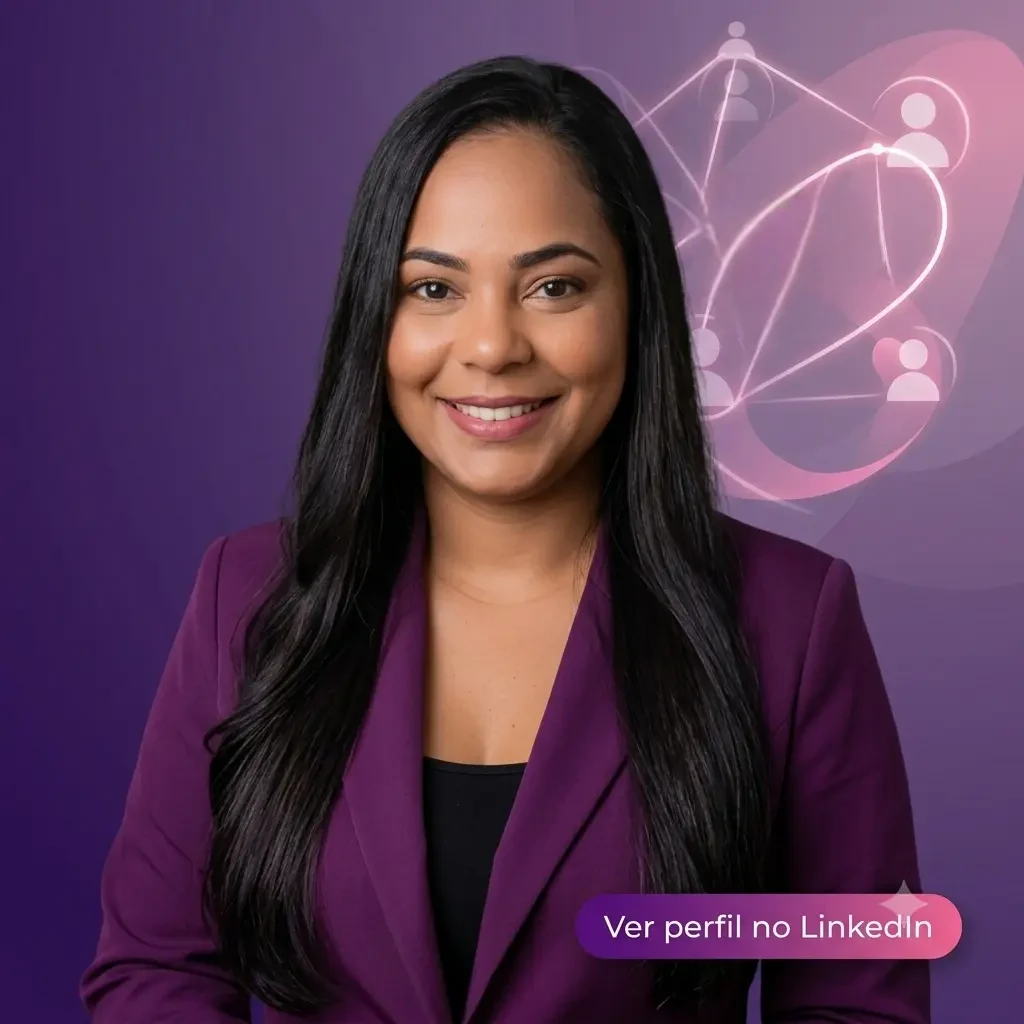
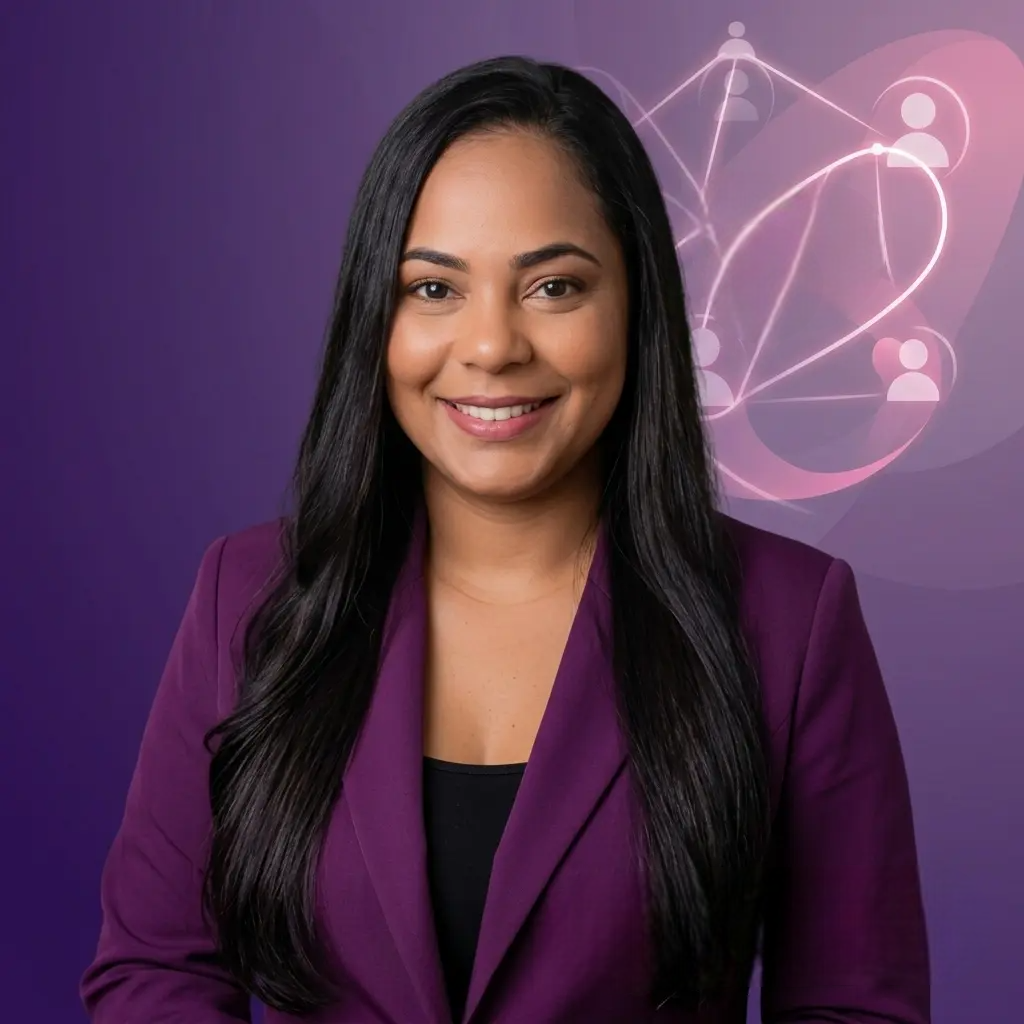
About: novo modelo padrao portifolio (entrada lateral x, sem parallax scroll-linked) + re-adicionada entre Stats e Investment

Changed region(s): [[0.5625, 0.8438, 0.9375, 0.9688]]

diff --git a/src/components/sections/About.tsx b/src/components/sections/About.tsx
@@ -1,11 +1,9 @@
 'use client';
 
-import { HeartHandshake, Lightbulb } from 'lucide-react';
+import { HeartHandshake, Lightbulb, Award } from 'lucide-react';
 import { LinkedinLogo } from '@phosphor-icons/react';
-import { MotionIn } from '@/components/ui/MotionIn';
-import { ParallaxLayer } from '@/components/ui/ParallaxLayer';
+import { motion } from 'motion/react';
 import type { OptimizedImage } from '@/lib/image';
-import { motionTokens } from '@/lib/motion-tokens';
 
 interface AboutProps {
   image: OptimizedImage;
@@ -20,95 +18,152 @@ const values = [
   { title: 'Estratégia', description: 'Foco em resultados sustentáveis.', icon: Lightbulb },
 ];
 
+const stats = [
+  { value: '10+', label: 'anos de experiência' },
+  { value: '500+', label: 'profissionais avaliados' },
+];
+
 export function About({ image }: AboutProps) {
   return (
-    <section id="sobre" className="scroll-mt-20 px-margin-mobile py-xl md:px-margin-desktop">
-      <div className="mx-auto grid w-full max-w-[85rem] grid-cols-1 items-center gap-xl md:grid-cols-2">
-        <div className="min-w-0 md:col-start-2 md:row-start-1">
-          <MotionIn direction="right">
-            <h2 className="text-headline-lg font-semibold text-primary">Sobre Vanessa Ariel</h2>
-            <div className="mt-base mb-md h-1 w-20 rounded-full brand-gradient" />
-          </MotionIn>
+    <section id="sobre" className="px-margin-mobile py-xl md:px-margin-desktop">
+      <div className="mx-auto grid w-full max-w-[85rem] grid-cols-1 items-start gap-xl lg:grid-cols-2 lg:gap-16">
+        {/* Texto — entrada lateral da esquerda */}
+        <div>
+          <motion.div
+            initial={{ opacity: 0, x: -30 }}
+            whileInView={{ opacity: 1, x: 0 }}
+            viewport={{ once: true, margin: '-50px' }}
+            transition={{ duration: 0.6 }}
+          >
+            <span className="inline-block text-label-sm font-medium uppercase tracking-[0.2em] text-primary">
+              Quem sou
+            </span>
+          </motion.div>
 
-          <MotionIn delay={0.1} direction="right">
-            <p className="text-body-lg text-on-surface-variant">
-              Com uma trajetória dedicada à psicologia organizacional e gestão estratégica, Vanessa
-              Ariel acredita que o sucesso de uma empresa está intrinsecamente ligado ao bem-estar e
-              desenvolvimento de seus colaboradores.
-            </p>
-          </MotionIn>
+          <motion.h2
+            initial={{ opacity: 0, x: -30 }}
+            whileInView={{ opacity: 1, x: 0 }}
+            viewport={{ once: true, margin: '-50px' }}
+            transition={{ duration: 0.6, delay: 0.08 }}
+            className="mt-2 text-3xl font-semibold leading-tight tracking-tight text-primary text-balance sm:text-4xl"
+          >
+            Sobre Vanessa Ariel
+          </motion.h2>
 
-          <MotionIn delay={0.2} direction="right">
-            <p className="m-2 text-body-md text-on-surface-variant">
-              Minha missão é desmistificar o RH transacional e elevar a área ao seu papel
-              fundamental: parceira estratégica do negócio. Através de uma visão sistêmica e
-              acolhedora, auxilio empreendedores a construir culturas fortes e equipes de alta
-              performance.
-            </p>
-          </MotionIn>
-        </div>
+          <motion.p
+            initial={{ opacity: 0, x: -30 }}
+            whileInView={{ opacity: 1, x: 0 }}
+            viewport={{ once: true, margin: '-50px' }}
+            transition={{ duration: 0.6, delay: 0.16 }}
+            className="mt-4 text-lg leading-relaxed text-on-surface-variant"
+          >
+            Com uma trajetória dedicada à psicologia organizacional e gestão estratégica, Vanessa
+            Ariel acredita que o sucesso de uma empresa está intrinsecamente ligado ao bem-estar e
+            ao desenvolvimento dos seus colaboradores.
+          </motion.p>
 
-        <div className="relative w-full md:col-start-1 md:row-span-2 md:row-start-1">
-          <MotionIn direction="left" distance={motionTokens.distance.xl} className="relative z-0">
-            <div className="aspect-[5/6] overflow-hidden rounded-3xl shadow-2xl">
-              <ParallaxLayer speed={0.12}>
-                <img
-                  src={image.src}
-                  srcSet={image.srcSet}
-                  sizes={image.sizes}
-                  width={image.width}
-                  height={image.height}
-                  alt="Vanessa Ariel conduzindo um workshop corporativo com equipe em sala moderna."
-                  className="h-full w-full object-cover"
-                  loading="lazy"
-                />
-              </ParallaxLayer>
-            </div>
-          </MotionIn>
-        </div>
+          <motion.p
+            initial={{ opacity: 0, x: -30 }}
+            whileInView={{ opacity: 1, x: 0 }}
+            viewport={{ once: true, margin: '-50px' }}
+            transition={{ duration: 0.6, delay: 0.24 }}
+            className="mt-4 text-base leading-relaxed text-on-surface-variant"
+          >
+            Minha missão é desmistificar o RH transacional e elevá-lo ao papel fundamental de
+            parceira estratégica do negócio: construir culturas fortes e equipes de alta
+            performance.
+          </motion.p>
 
-        <div className="min-w-0 md:col-start-2 md:row-start-2">
-          <div className="grid grid-cols-2 gap-md py-md">
-            {values.map((value, index) => (
-              <MotionIn
+          {/* Cards de valores */}
+          <div className="mt-8 grid grid-cols-1 gap-4 sm:grid-cols-2">
+            {values.map((value, i) => (
+              <motion.div
                 key={value.title}
-                delay={0.3 + index * 0.1}
-                direction="up"
-                distance={motionTokens.distance.md}
-                className="h-full"
+                initial={{ opacity: 0, x: -20 }}
+                whileInView={{ opacity: 1, x: 0 }}
+                viewport={{ once: true, margin: '-30px' }}
+                transition={{ duration: 0.5, delay: 0.3 + i * 0.1 }}
+                className="flex items-start gap-4 rounded-2xl bg-surface-container-low p-5"
               >
-                <div className="h-full rounded-xl bg-surface-container-low p-base">
-                  <div className="mb-sm flex h-10 w-10 items-center justify-center rounded-full bg-secondary-fixed-dim/40 text-secondary">
-                    <value.icon className="h-5 w-5" />
-                  </div>
-                  <h4 className="text-headline-md font-semibold text-secondary">{value.title}</h4>
-                  <p className="text-label-sm text-on-surface-variant">{value.description}</p>
+                <span className="flex h-11 w-11 shrink-0 items-center justify-center rounded-full bg-secondary-fixed-dim/40 text-secondary">
+                  <value.icon className="h-5 w-5" />
+                </span>
+                <div>
+                  <h3 className="text-lg font-semibold text-secondary">{value.title}</h3>
+                  <p className="mt-1 text-sm text-on-surface-variant">{value.description}</p>
                 </div>
-              </MotionIn>
+              </motion.div>
             ))}
           </div>
 
-          <MotionIn delay={0.45} direction="right" distance={motionTokens.distance.sm}>
-            <blockquote className="border-l-4 border-primary pl-md text-body-lg italic text-primary">
-              &quot;Pessoas não são recursos, são o coração do negócio.&quot;
-            </blockquote>
-          </MotionIn>
+          {/* Stats */}
+          <div className="mt-8 grid grid-cols-2 gap-6">
+            {stats.map((stat, i) => (
+              <motion.div
+                key={stat.label}
+                initial={{ opacity: 0, x: -20 }}
+                whileInView={{ opacity: 1, x: 0 }}
+                viewport={{ once: true, margin: '-30px' }}
+                transition={{ duration: 0.5, delay: 0.4 + i * 0.1 }}
+              >
+                <span className="brand-text-gradient text-3xl font-bold tabular-nums">
+                  {stat.value}
+                </span>
+                <p className="text-sm text-on-surface-variant">{stat.label}</p>
+              </motion.div>
+            ))}
+          </div>
 
-          <MotionIn delay={0.55} direction="right" distance={motionTokens.distance.sm}>
-            <a
-              href="https://linkedin.com"
-              target="_blank"
-              rel="noopener noreferrer"
-              className="m-4 group inline-flex items-center gap-sm font-bold text-primary"
-            >
-              Ver perfil no LinkedIn
-              <LinkedinLogo
-                weight="fill"
-                className="h-5 w-5 transition-transform duration-300 group-hover:translate-x-1"
-              />
-            </a>
-          </MotionIn>
+          <motion.a
+            href="https://linkedin.com"
+            target="_blank"
+            rel="noopener noreferrer"
+            initial={{ opacity: 0, x: -20 }}
+            whileInView={{ opacity: 1, x: 0 }}
+            viewport={{ once: true, margin: '-30px' }}
+            transition={{ duration: 0.5, delay: 0.5 }}
+            className="group mt-8 inline-flex items-center gap-2 text-base font-bold text-primary"
+          >
+            Ver perfil no LinkedIn
+            <LinkedinLogo
+              weight="fill"
+              className="h-5 w-5 transition-transform duration-300 group-hover:translate-x-1"
+            />
+          </motion.a>
         </div>
+
+        {/* Foto — entrada lateral da direita + selo de destaque */}
+        <motion.div
+          initial={{ opacity: 0, x: 40 }}
+          whileInView={{ opacity: 1, x: 0 }}
+          viewport={{ once: true, margin: '-50px' }}
+          transition={{ duration: 0.8, delay: 0.1 }}
+        >
+          <div className="relative">
+            <div className="aspect-[4/5] overflow-hidden rounded-3xl shadow-2xl">
+              <img
+                src={image.src}
+                srcSet={image.srcSet}
+                sizes={image.sizes}
+                width={image.width}
+                height={image.height}
+                alt="Vanessa Ariel conduzindo um workshop corporativo com equipe em sala moderna."
+                className="h-full w-full object-cover"
+                loading="lazy"
+              />
+            </div>
+
+            <div className="glass-card absolute -bottom-5 left-5 flex items-center gap-3 rounded-2xl p-4 shadow-xl">
+              <span className="flex h-10 w-10 items-center justify-center rounded-full bg-primary/10 text-primary">
+                <Award className="h-5 w-5" />
+              </span>
+              <div>
+                <p className="text-sm font-semibold text-on-surface">Psicóloga Organizacional</p>
+                <p className="text-xs text-on-surface-variant">RH estratégico</p>
+              </div>
+            </div>
+          </div>
+        </motion.div>
       </div>
     </section>
   );

diff --git a/src/components/ui/ParallaxLayer.tsx b/src/components/ui/ParallaxLayer.tsx
@@ -8,7 +8,7 @@ interface ParallaxLayerProps {
   className?: string;
   style?: CSSProperties;
   speed?: number;
-  factor?: number;
+  maxOffset?: number;
 }
 
 export function ParallaxLayer({
@@ -16,7 +16,7 @@ export function ParallaxLayer({
   className,
   style,
   speed = 0.5,
-  factor = 1.15,
+  maxOffset = 120,
 }: ParallaxLayerProps) {
   const ref = useRef<HTMLDivElement>(null);
   const reduce = useReducedMotion();
@@ -24,28 +24,18 @@ export function ParallaxLayer({
     target: ref,
     offset: ['start end', 'end start'],
   });
-  const y = useTransform(scrollYProgress, [0, 1], [-(speed * 100), speed * 100]);
+  const y = useTransform(scrollYProgress, [0, 1], [maxOffset * speed, -maxOffset * speed]);
 
   if (reduce)
     return (
-      <div className={`overflow-hidden ${className ?? ''}`} style={style}>
-        <div className="h-full w-full">{children}</div>
+      <div className={className} style={style}>
+        {children}
       </div>
     );
 
   return (
-    <div ref={ref} className={`overflow-hidden ${className ?? ''}`} style={style}>
-      {/* scale > 1 garante que o translateY nunca exponha borda */}
-      <motion.div
-        className="h-full w-full"
-        style={{
-          y,
-          scale: factor,
-          willChange: 'transform',
-        }}
-      >
-        {children}
-      </motion.div>
+    <div ref={ref} className={className} style={style}>
+      <motion.div style={{ y }}>{children}</motion.div>
     </div>
   );
 }

diff --git a/src/components/sections/Pillars.tsx b/src/components/sections/Pillars.tsx
@@ -12,7 +12,7 @@ export function Pillars({ background }: PillarsProps) {
   return (
     <section id="pilares" aria-label="Nossos Pilares de Atuação" className="scroll-mt-20">
       <MotionIn direction="fade">
-        <ParallaxLayer speed={0.2} className="aspect-[16/9] w-full">
+        <ParallaxLayer speed={0.15} maxOffset={80}>
           <img
             src={background.src}
             srcSet={background.srcSet}
@@ -21,7 +21,7 @@ export function Pillars({ background }: PillarsProps) {
             height={background.height}
             alt="Nossos Pilares de Atuação"
             loading="lazy"
-            className="h-full w-full object-cover"
+            className="h-auto w-full"
           />
         </ParallaxLayer>
       </MotionIn>
